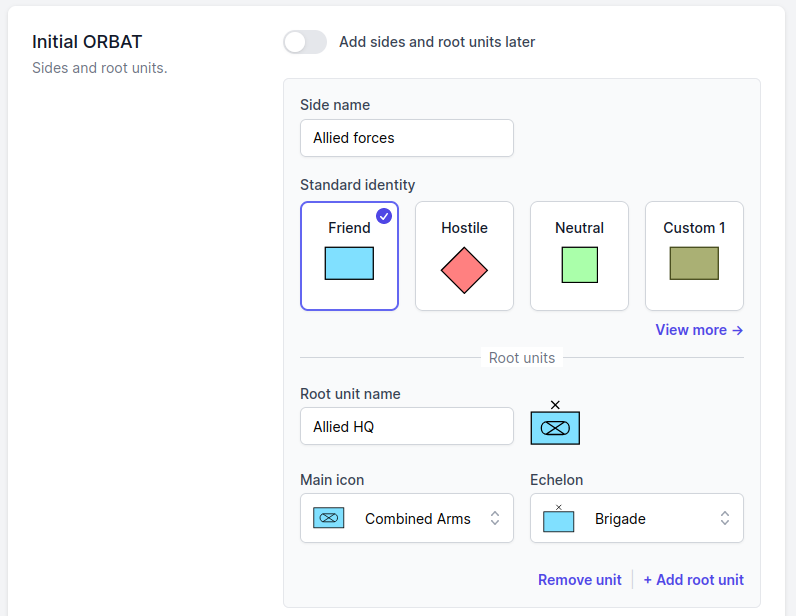
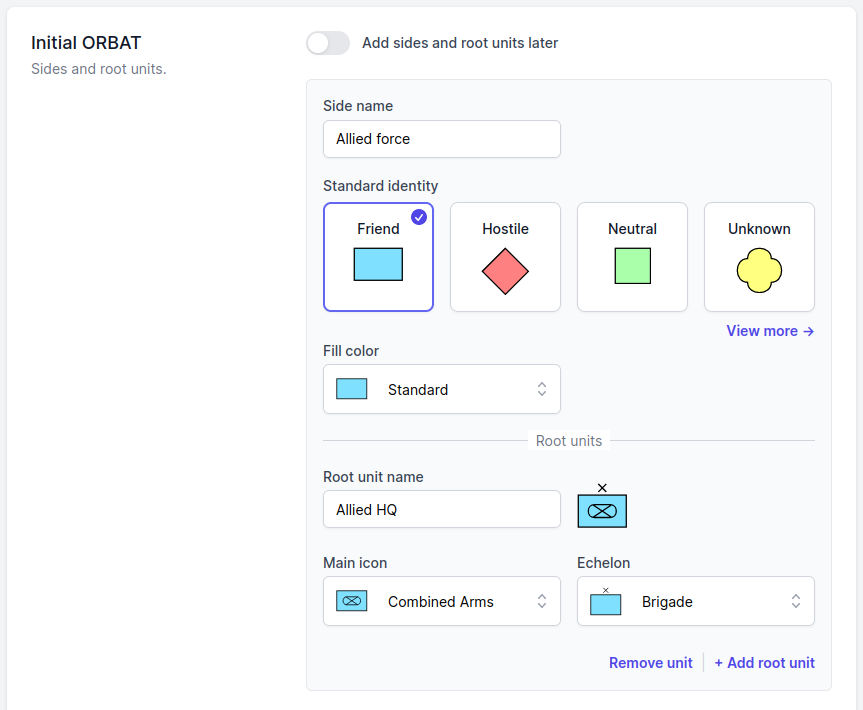
docs: update screenshot++

diff --git a/docs/guide/terminology.md b/docs/guide/terminology.md
@@ -28,6 +28,12 @@ of the unit icons. The most commonly used ones are friend, neutral and hostile:
 You can also select custom colors. This is useful in cases when you do not want to label a side as hostile or want to
 distinguish different nations by symbol color.
 
+<div class="grid grid-cols-3 gap-0 items-center justify-items-center content-end">
+    <DocMilSymbol sidc="10031000000000000000" :modifiers="{fillColor: '#aab074'}"/>
+    <DocMilSymbol sidc="10031000000000000000" :modifiers="{fillColor: '#ffd00b'}"/>
+    <DocMilSymbol sidc="10031000000000000000" :modifiers="{fillColor: '#ff3333'}"/>
+</div>
+
 Each side consists of one or more groups of units. A group is just a way to organize your units. They can for instance
 represent branches (army, navy, air-force, etc.), a task force, a battlefront, etc. The default group name is _Units_.
 

diff --git a/docs/guide/getting-started.md b/docs/guide/getting-started.md
@@ -15,9 +15,9 @@ Start by adding a name and description:
 ![Create new scenario](images/create-new-scenario.png)
 
 Next you can add an initial ORBAT to get you started. Enter name of sides, root units and select the standard identity
-for each side. The standard identity determines the color and shape of the unit icons. You can also assign unit icons
-and echelons. If you can't find the right icon don't worry. Only a small subset is displayed. You can change the icons
-later.
+for each side. The standard identity determines the color and shape of the unit icons. Additionally, you can change the
+symbol fill color. You can also assign unit icons and echelons. If you can't find the right icon don't worry. Only a
+small subset is displayed. You can change the icons later.
 
 ![Initial ORBAT](images/initial-orbat.png)
 
